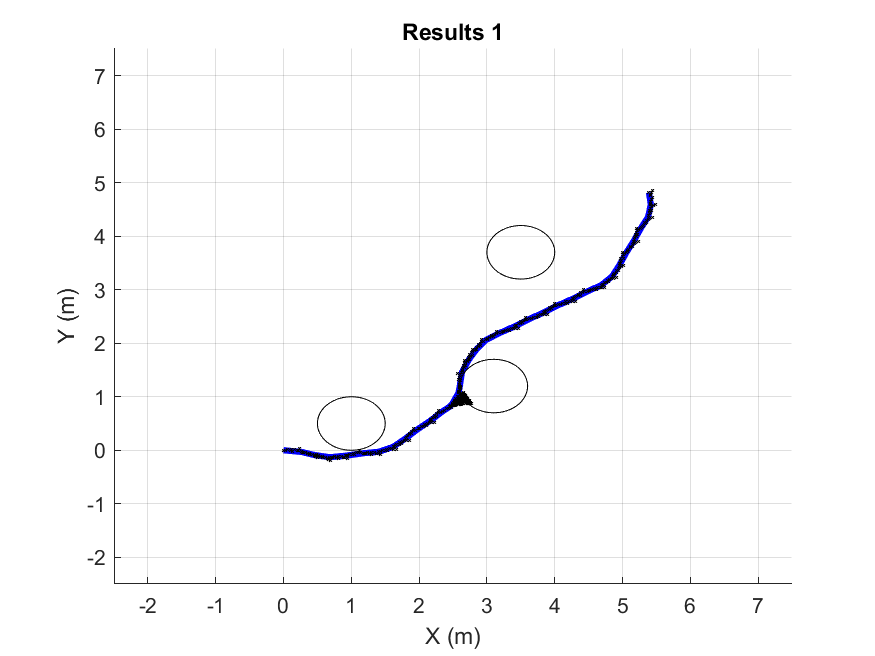
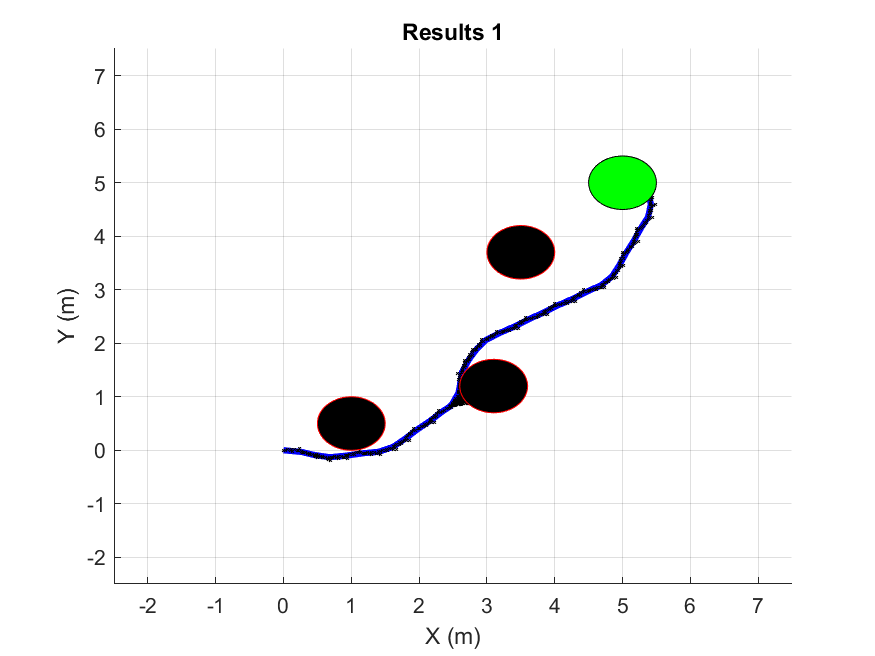
Update matlab

diff --git a/sbmpo_models/matlab/BookModelVisualizer.m b/sbmpo_models/matlab/BookModelVisualizer.m
@@ -11,6 +11,9 @@ obstacles = [3.1, 1.2, 0.5;
              3.5, 3.7, 0.5;
              1.0, 0.5, 0.5];
 
+% Set goal
+goal = [5, 5, 0.5];
+
 % Convert path states to points and plot
 for p = 1:length(plans)
 
@@ -46,10 +49,16 @@ for p = 1:length(plans)
     % Plot obstacles
     obstacles(:,1:2) = obstacles(:,1:2) - obstacles(:,3);
     obstacles(:,3) = obstacles(:,3) .* 2;
-    pos = [obstacles(:,1:2) obstacles(:,3) obstacles(:,3)];
+    obs = [obstacles(:,1:2) obstacles(:,3) obstacles(:,3)];
     for o = 1:length(obstacles)
-        rectangle(Position=pos(o, :), Curvature=[1,1])
+        rectangle(Position=obs(o, :), Curvature=[1,1], FaceColor='k', EdgeColor='r')
     end
+
+    % Plot goal
+    goal(1:2) = goal(1:2) - goal(3);
+    goal(3) = goal(3) * 2;
+    gol = [goal(1:2) goal(3) goal(3)];
+    rectangle(Position=gol, Curvature=[1,1], FaceColor='g', EdgeColor='k')
 
     saveas(gcf, 'figures/book_model_result.png');
 
